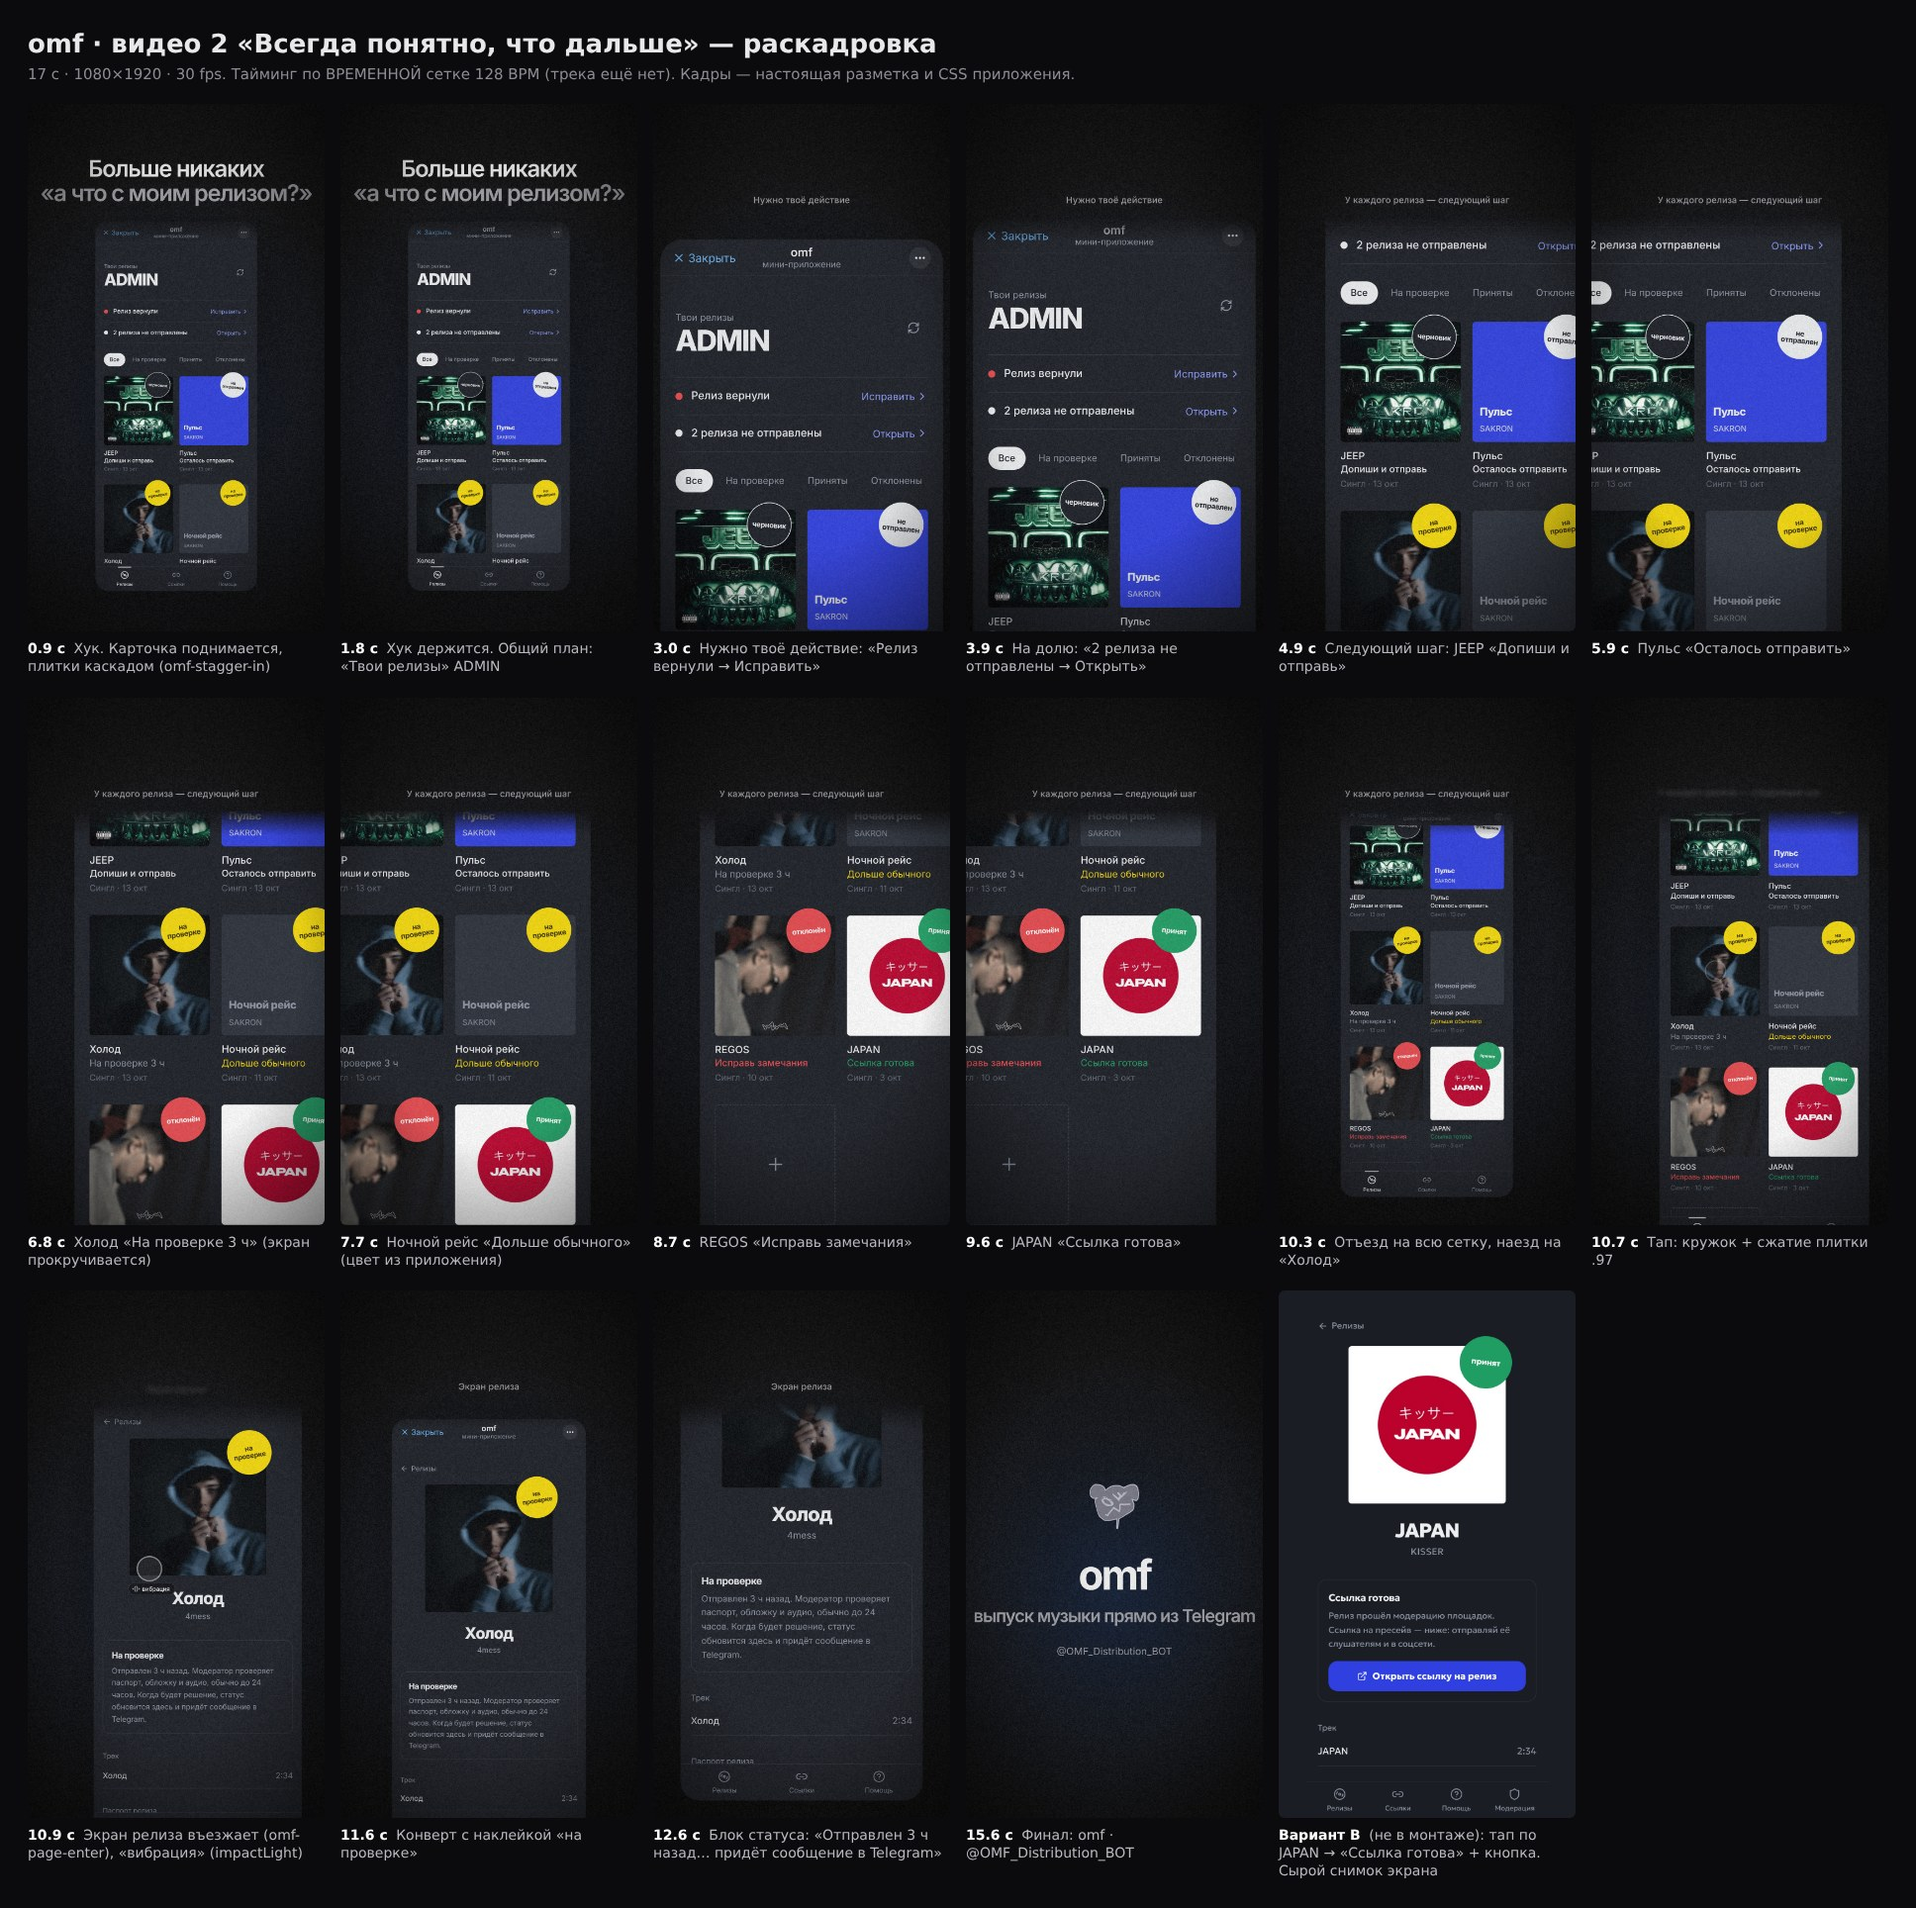
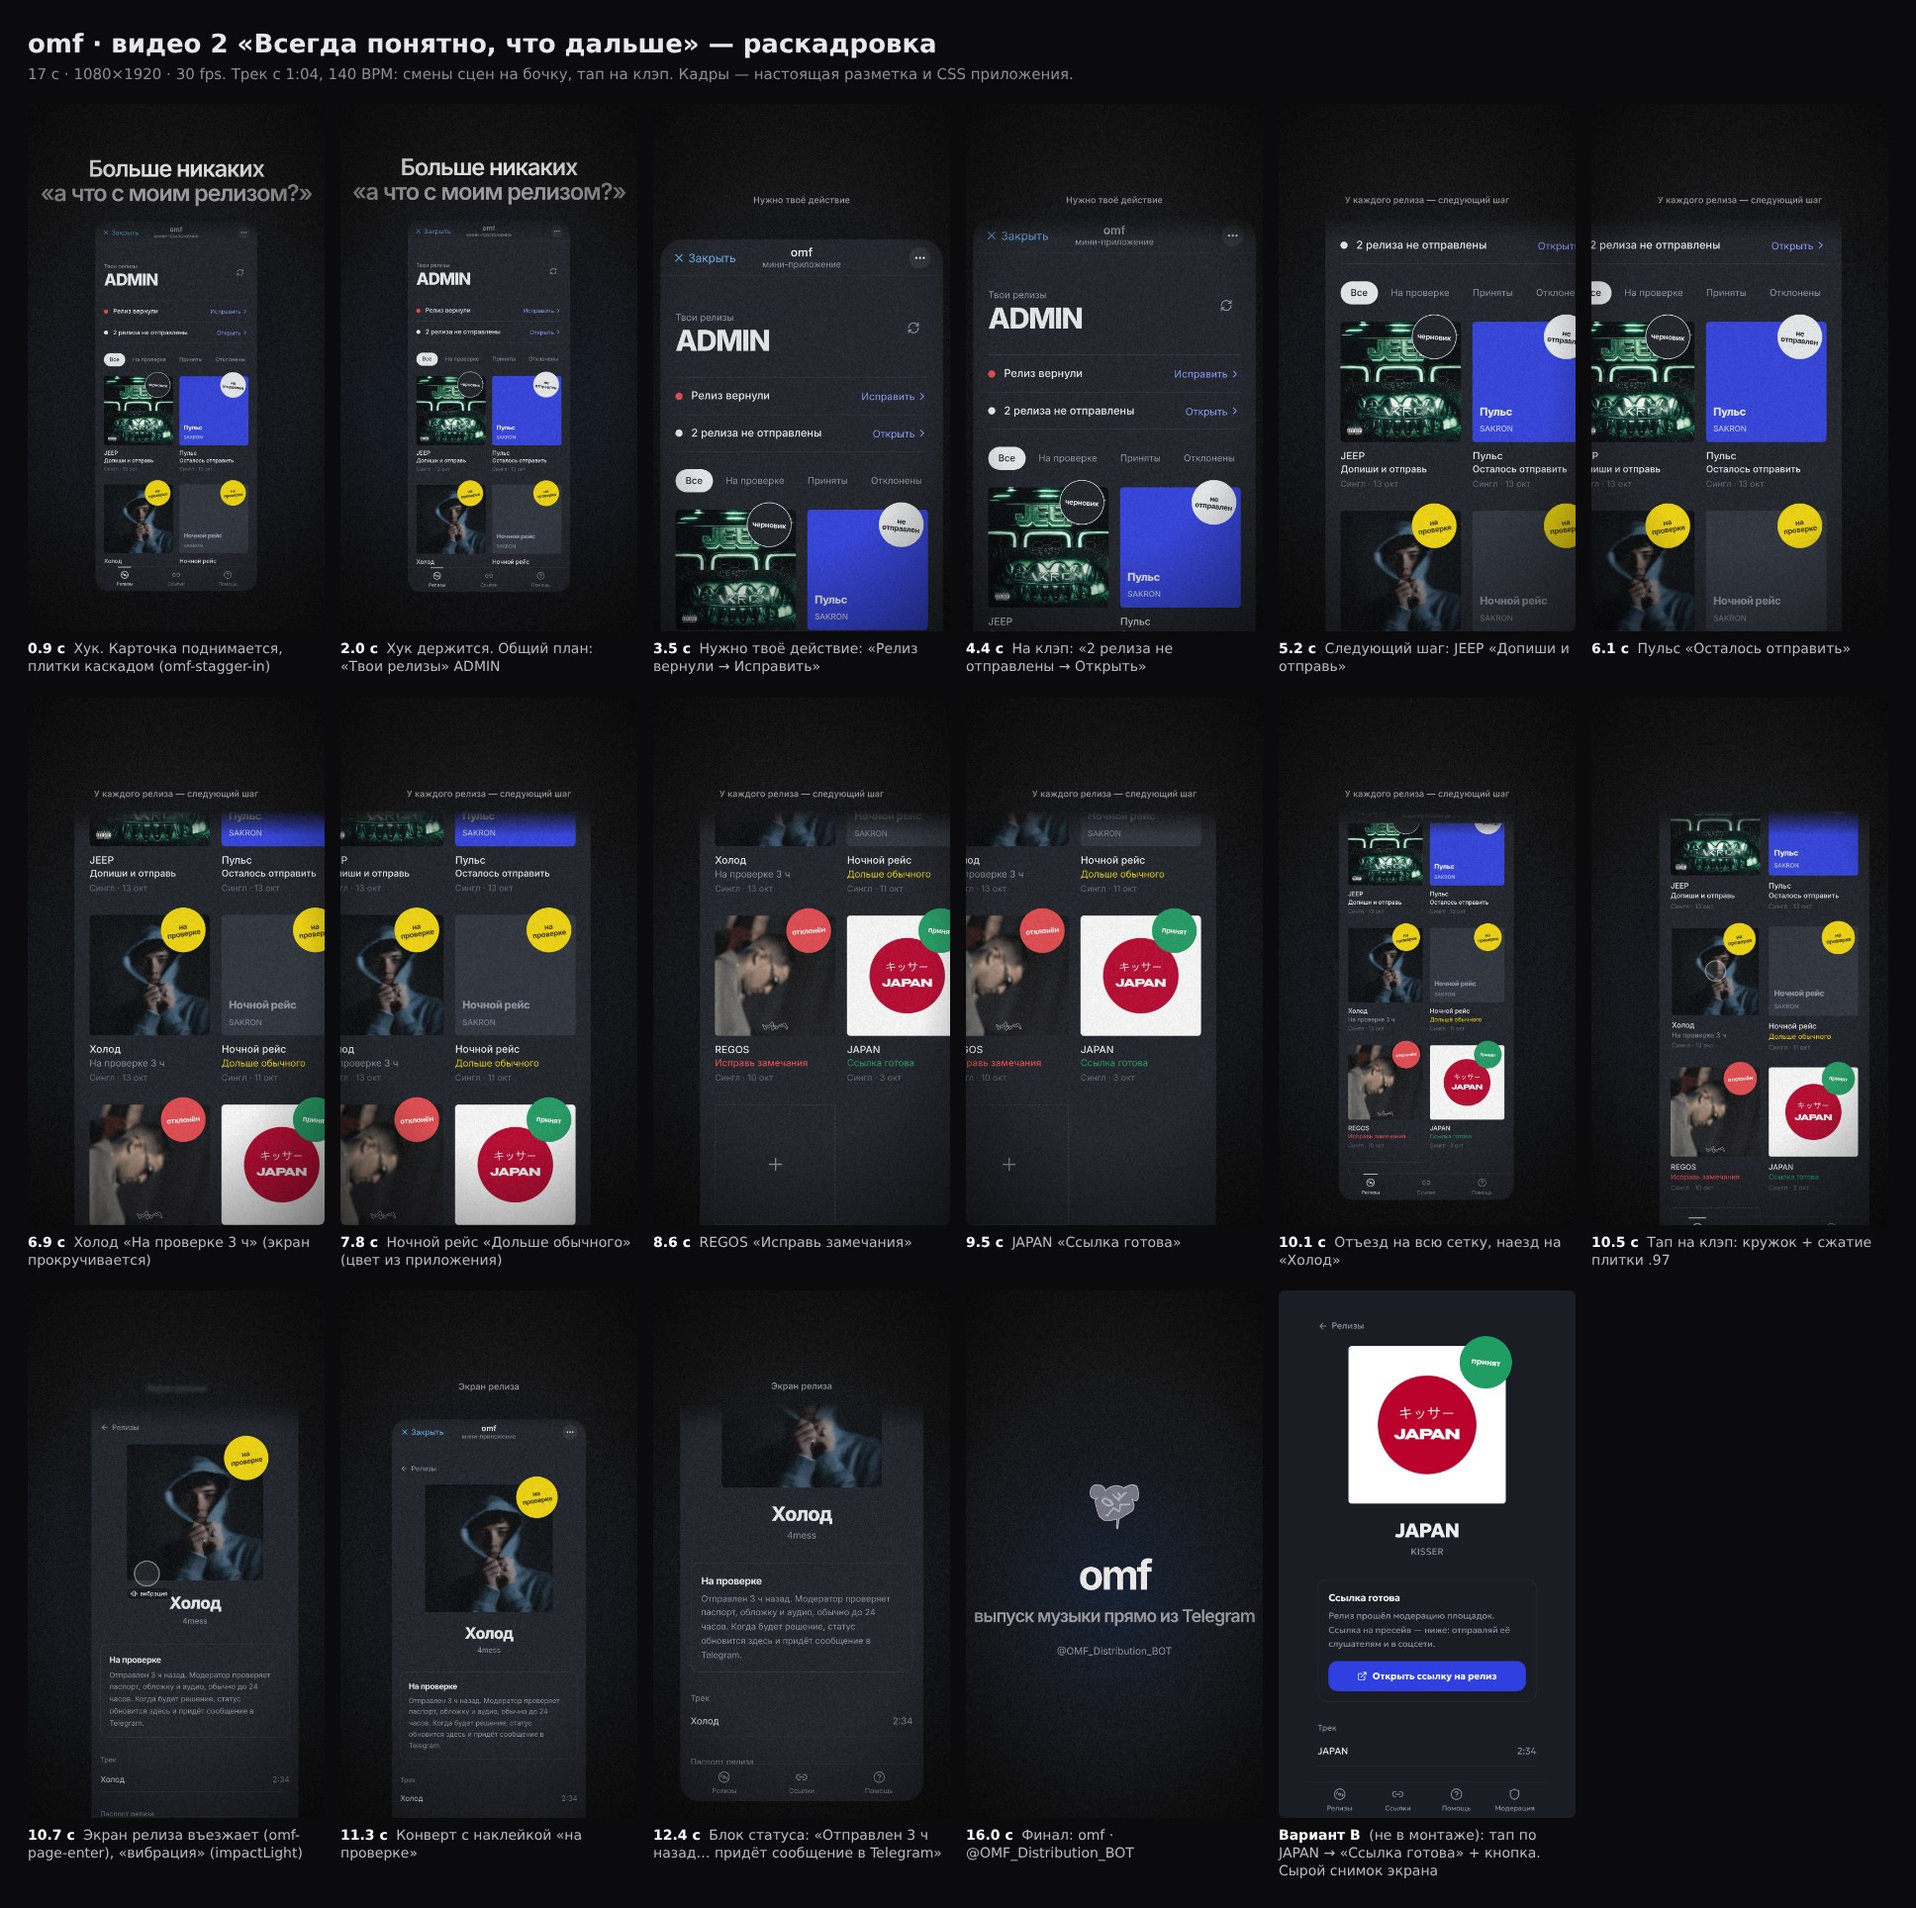
chore(promo): video 2 on the track grid — 140 BPM from 1:04
Clap once per bar at 0.258 s + 1.7143k (fit over 17 bars, ±10 ms), kick
half a bar later. Scene changes land on the kick, the tap on «Холод» on a
clap; length stays 17 s. Plan gets the music cut and a share-copy draft.

Claude-Session: https://claude.ai/code/session_01XAXWcY1NYejXxUvVDG8zVg

diff --git a/promo/motion-kit/examples/video-2/index.html b/promo/motion-kit/examples/video-2/index.html
@@ -94,18 +94,19 @@ function rv(e, t, tIn, tOut, { dy = 40, dur = .6, outDur = .3 } = {}) {
 }
 
 // =================== timeline (seconds) ===================
-// music: ВРЕМЕННАЯ сетка 128 BPM, клэп раз в такт — трека ещё нет. Под трек меняются только BAR и CLAP0.
-const BAR = 60 / 128 * 4, CLAP0 = 0.47;
+// music: track from 1:04 (fade-in 1.5 s), 140 BPM, clap once per bar (1.2–4 kHz onsets, fit ±10 ms) → video t = 0.258 + 1.7143k;
+// the kick lands half a bar after each clap → DOWN
+const BAR = 60 / 140 * 4, CLAP0 = 0.258;
 const CLAP = k => CLAP0 + k * BAR, DOWN = k => CLAP(k) - BAR / 2;
 const T = {
   cardIn: .35, libMount: .55,
-  act0: CLAP(1), act1: DOWN(2),                                          // «Нужно твоё действие»: строка 1, строка 2
-  tiles: [CLAP(2), DOWN(3), CLAP(3), DOWN(4), CLAP(4), DOWN(5)],          // шесть строк «что дальше», по полтакта
-  pullBack: CLAP(5), tapHolod: DOWN(6),                                   // общий план → тап по «Холод»
-  statusCam: CLAP(6),                                                     // экран релиза: блок статуса
-  endCut: DOWN(8),
+  act0: DOWN(2), act1: CLAP(2),                                          // «Нужно твоё действие»: строка 1, строка 2
+  tiles: [DOWN(3), CLAP(3), DOWN(4), CLAP(4), DOWN(5), CLAP(5)],          // шесть строк «что дальше», по полтакта
+  pullBack: DOWN(6), tapHolod: CLAP(6),                                   // общий план → тап по «Холод» на клэп
+  statusCam: DOWN(7),                                                     // экран релиза: блок статуса
+  endCut: DOWN(9),
 };
-const DUR = Math.ceil(T.endCut + 2.3); // whole seconds: render.mjs cuts 30-frame chunks
+const DUR = Math.round(T.endCut + 2.3); // whole seconds: render.mjs cuts 30-frame chunks
 window.DUR = DUR;
 const EYEBROWS = [[T.act0, 'Нужно твоё действие'], [T.tiles[0], 'У каждого релиза — следующий шаг'], [T.tapHolod, 'Экран релиза'], [T.endCut, '']];
 

diff --git a/promo/motion-kit/examples/video-2/brag-plan.md b/promo/motion-kit/examples/video-2/brag-plan.md
@@ -1,6 +1,6 @@
 # Видео 2 — «Всегда понятно, что дальше»
 
-**Формат:** 9:16, 1080×1920, 17 с, 30 fps. Стиль серии как в видео 1: тёмный фон, серо-белый текст, плоская карточка экрана, зерно.
+**Формат:** 9:16, 1080×1920, 17 с, 30 fps, трек с 1:04. Стиль серии как в видео 1: тёмный фон, серо-белый текст, плоская карточка экрана, зерно.
 **Что в кадре:** настоящая разметка и CSS приложения из ветки `claude/ecstatic-clarke-3b94n6` (`node tools/capture.mjs next`):
 библиотека (`app/library/page.tsx`) и экран релиза (`app/release/[id]/ReleaseDetailsClient.tsx`). Тексты строк — из `lib/release-next-step.ts`.
 Данные — 6 демо-релизов вместо API, боевая база не трогается:
@@ -18,14 +18,18 @@
 
 | Время | Сцена | Подпись |
 |---|---|---|
-| 0–2.3 | Хук; карточка поднимается, плитки каскадом (`omf-stagger-in`) | «Больше никаких / «а что с моим релизом?»» |
-| 2.3–4.2 | Зум 1.75 на блок сверху: «Релиз вернули → Исправить», на следующую долю «2 релиза не отправлены → Открыть» | Нужно твоё действие |
-| 4.2–9.8 | Камера по плиткам, каждые полтакта, экран прокручивается: «Допиши и отправь» → «Осталось отправить» → «На проверке 3 ч» → «Дольше обычного» → «Исправь замечания» → «Ссылка готова» | У каждого релиза — следующий шаг |
-| 9.8–10.8 | Отъезд на всю сетку, наезд на «Холод», тап (сжатие плитки `.omf-press` 0.97, вибрация — `hapticMap.impactLight` в `openRelease`) | — |
-| 10.8–14.5 | `/release/<id>`: `omf-page-enter` 320 мс; конверт с наклейкой «на проверке» → зум 1.5 на блок статуса «На проверке / Отправлен 3 ч назад… придёт сообщение в Telegram» | Экран релиза |
-| 14.5–17 | Финальная карточка: «omf · выпуск музыки прямо из Telegram», @OMF_Distribution_BOT | — |
+| 0–2.8 | Хук; карточка поднимается, плитки каскадом (`omf-stagger-in`) | «Больше никаких / «а что с моим релизом?»» |
+| 2.8–4.5 | Зум 1.75 на блок сверху: «Релиз вернули → Исправить» (бочка), «2 релиза не отправлены → Открыть» (клэп) | Нужно твоё действие |
+| 4.5–9.7 | Камера по плиткам, каждые полтакта (0.86 с, бочка/клэп), экран прокручивается: «Допиши и отправь» → «Осталось отправить» → «На проверке 3 ч» → «Дольше обычного» → «Исправь замечания» → «Ссылка готова» | У каждого релиза — следующий шаг |
+| 9.7–10.5 | Отъезд на всю сетку, наезд на «Холод», тап на клэп 10.54 (сжатие плитки `.omf-press` 0.97, вибрация — `hapticMap.impactLight` в `openRelease`) | — |
+| 10.5–14.8 | `/release/<id>`: `omf-page-enter` 320 мс; конверт с наклейкой «на проверке» → на бочке 11.4 зум 1.5 на блок статуса «На проверке / Отправлен 3 ч назад… придёт сообщение в Telegram» | Экран релиза |
+| 14.8–17 | Финальная карточка: «omf · выпуск музыки прямо из Telegram», @OMF_Distribution_BOT | — |
 
-**Музыка:** трека ещё нет, тайминг стоит на временной сетке 128 BPM (`BAR`, `CLAP0` в начале таймлайна). Под трек меняются только они.
+**Музыка:** трек с 1:04, 140 BPM. Клэп раз в такт (онсеты 1.2–4 кГц, подгонка по 17 тактам, разброс ±10 мс): `CLAP0 = 0.258`, `BAR = 1.7143`;
+бочка — ровно между клэпами (`DOWN`). Смены сцен — на бочку, тап — на клэп.
+`assets/music.wav`: `ffmpeg -ss 64 -t 17 -i track.mp3 -af "volume=-1dB,afade=t=in:st=0:d=1.5,afade=t=out:st=15.5:d=1.5" -ar 48000 -ac 2 -c:a pcm_s16le assets/music.wav`.
+
+**share-copy (черновик):** Больше никаких «а что с моим релизом?». В omf под каждым релизом написан следующий шаг: допиши, отправь, жди проверку или забирай ссылку, а решение модератора приходит сообщением в Telegram. @OMF_Distribution_BOT
 
 **Отличия от черновика в промте (по коду):**
 - Блок «Нужно твоё действие» идёт до плиток: в приложении он над сеткой, камера едет сверху вниз.
